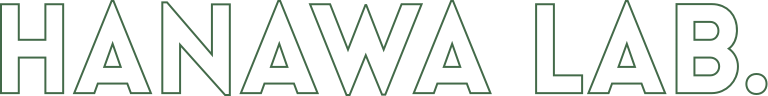
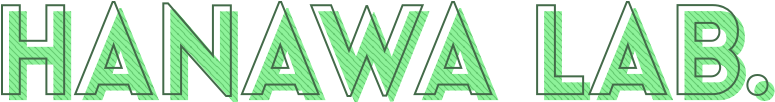
ずれの表現を画像として書き出し(css削除)

diff --git a/wp-content/themes/hanawaLab/style.css b/wp-content/themes/hanawaLab/style.css
@@ -118,22 +118,6 @@ body {
   transform: rotate(18deg);
 }
 
-.lag-shadow {
-  position: relative;
-}
-
-.lag-shadow img:first-child {
-  position: relative;
-  z-index: 1;
-}
-
-.lag-shadow img:nth-child(2) {
-  position: absolute;
-  top: 6px;
-  left: 9px;
-  z-index: 0;
-}
-
 body {
   background-color: #B6F4C6;
 }

diff --git a/wp-content/themes/hanawaLab/scss/style.scss b/wp-content/themes/hanawaLab/scss/style.scss
@@ -7,7 +7,6 @@
 // Modules
 @import 'module/sharetech';
 @import 'module/logoPath';
-@import 'module/lagShadow';
 @import 'module/background';
 @import 'module/site-title';
 @import 'module/h2';

diff --git a/wp-content/themes/hanawaLab/index.php b/wp-content/themes/hanawaLab/index.php
@@ -20,7 +20,6 @@
 		<section class="site-title">
 			<div class="site-title-main lag-shadow">
 				<img src="<?php bloginfo('template_directory'); ?>/images/top/title.png">
-				<img src="<?php bloginfo('template_directory'); ?>/images/top/title-shadow.png">
 			</div>
 			<p class="site-title-sub sharetech">Nagoya City University − School of Design & Architecture</p>
 		</section>
@@ -28,7 +27,6 @@
 			<div class="h2">
 				<div class="lag-shadow icon">
 					<img src="<?php bloginfo('template_directory'); ?>/images/top/i-about.png">
-					<img src="<?php bloginfo('template_directory'); ?>/images/top/i-about-shadow.png">
 				</div>
 				<h2>About HANAWA Lab</h2>
 			</div>
@@ -39,8 +37,7 @@
 		<section class="whats">
 			<div class="h2">
 				<div class="lag-shadow icon">
-					<img src="<?php bloginfo('template_directory'); ?>/images/top/i-about.png">
-					<img src="<?php bloginfo('template_directory'); ?>/images/top/i-about-shadow.png">
+					<img src="<?php bloginfo('template_directory'); ?>/images/top/i-whats.png">
 				</div>
 				<h2>What's New</h2>
 			</div>
